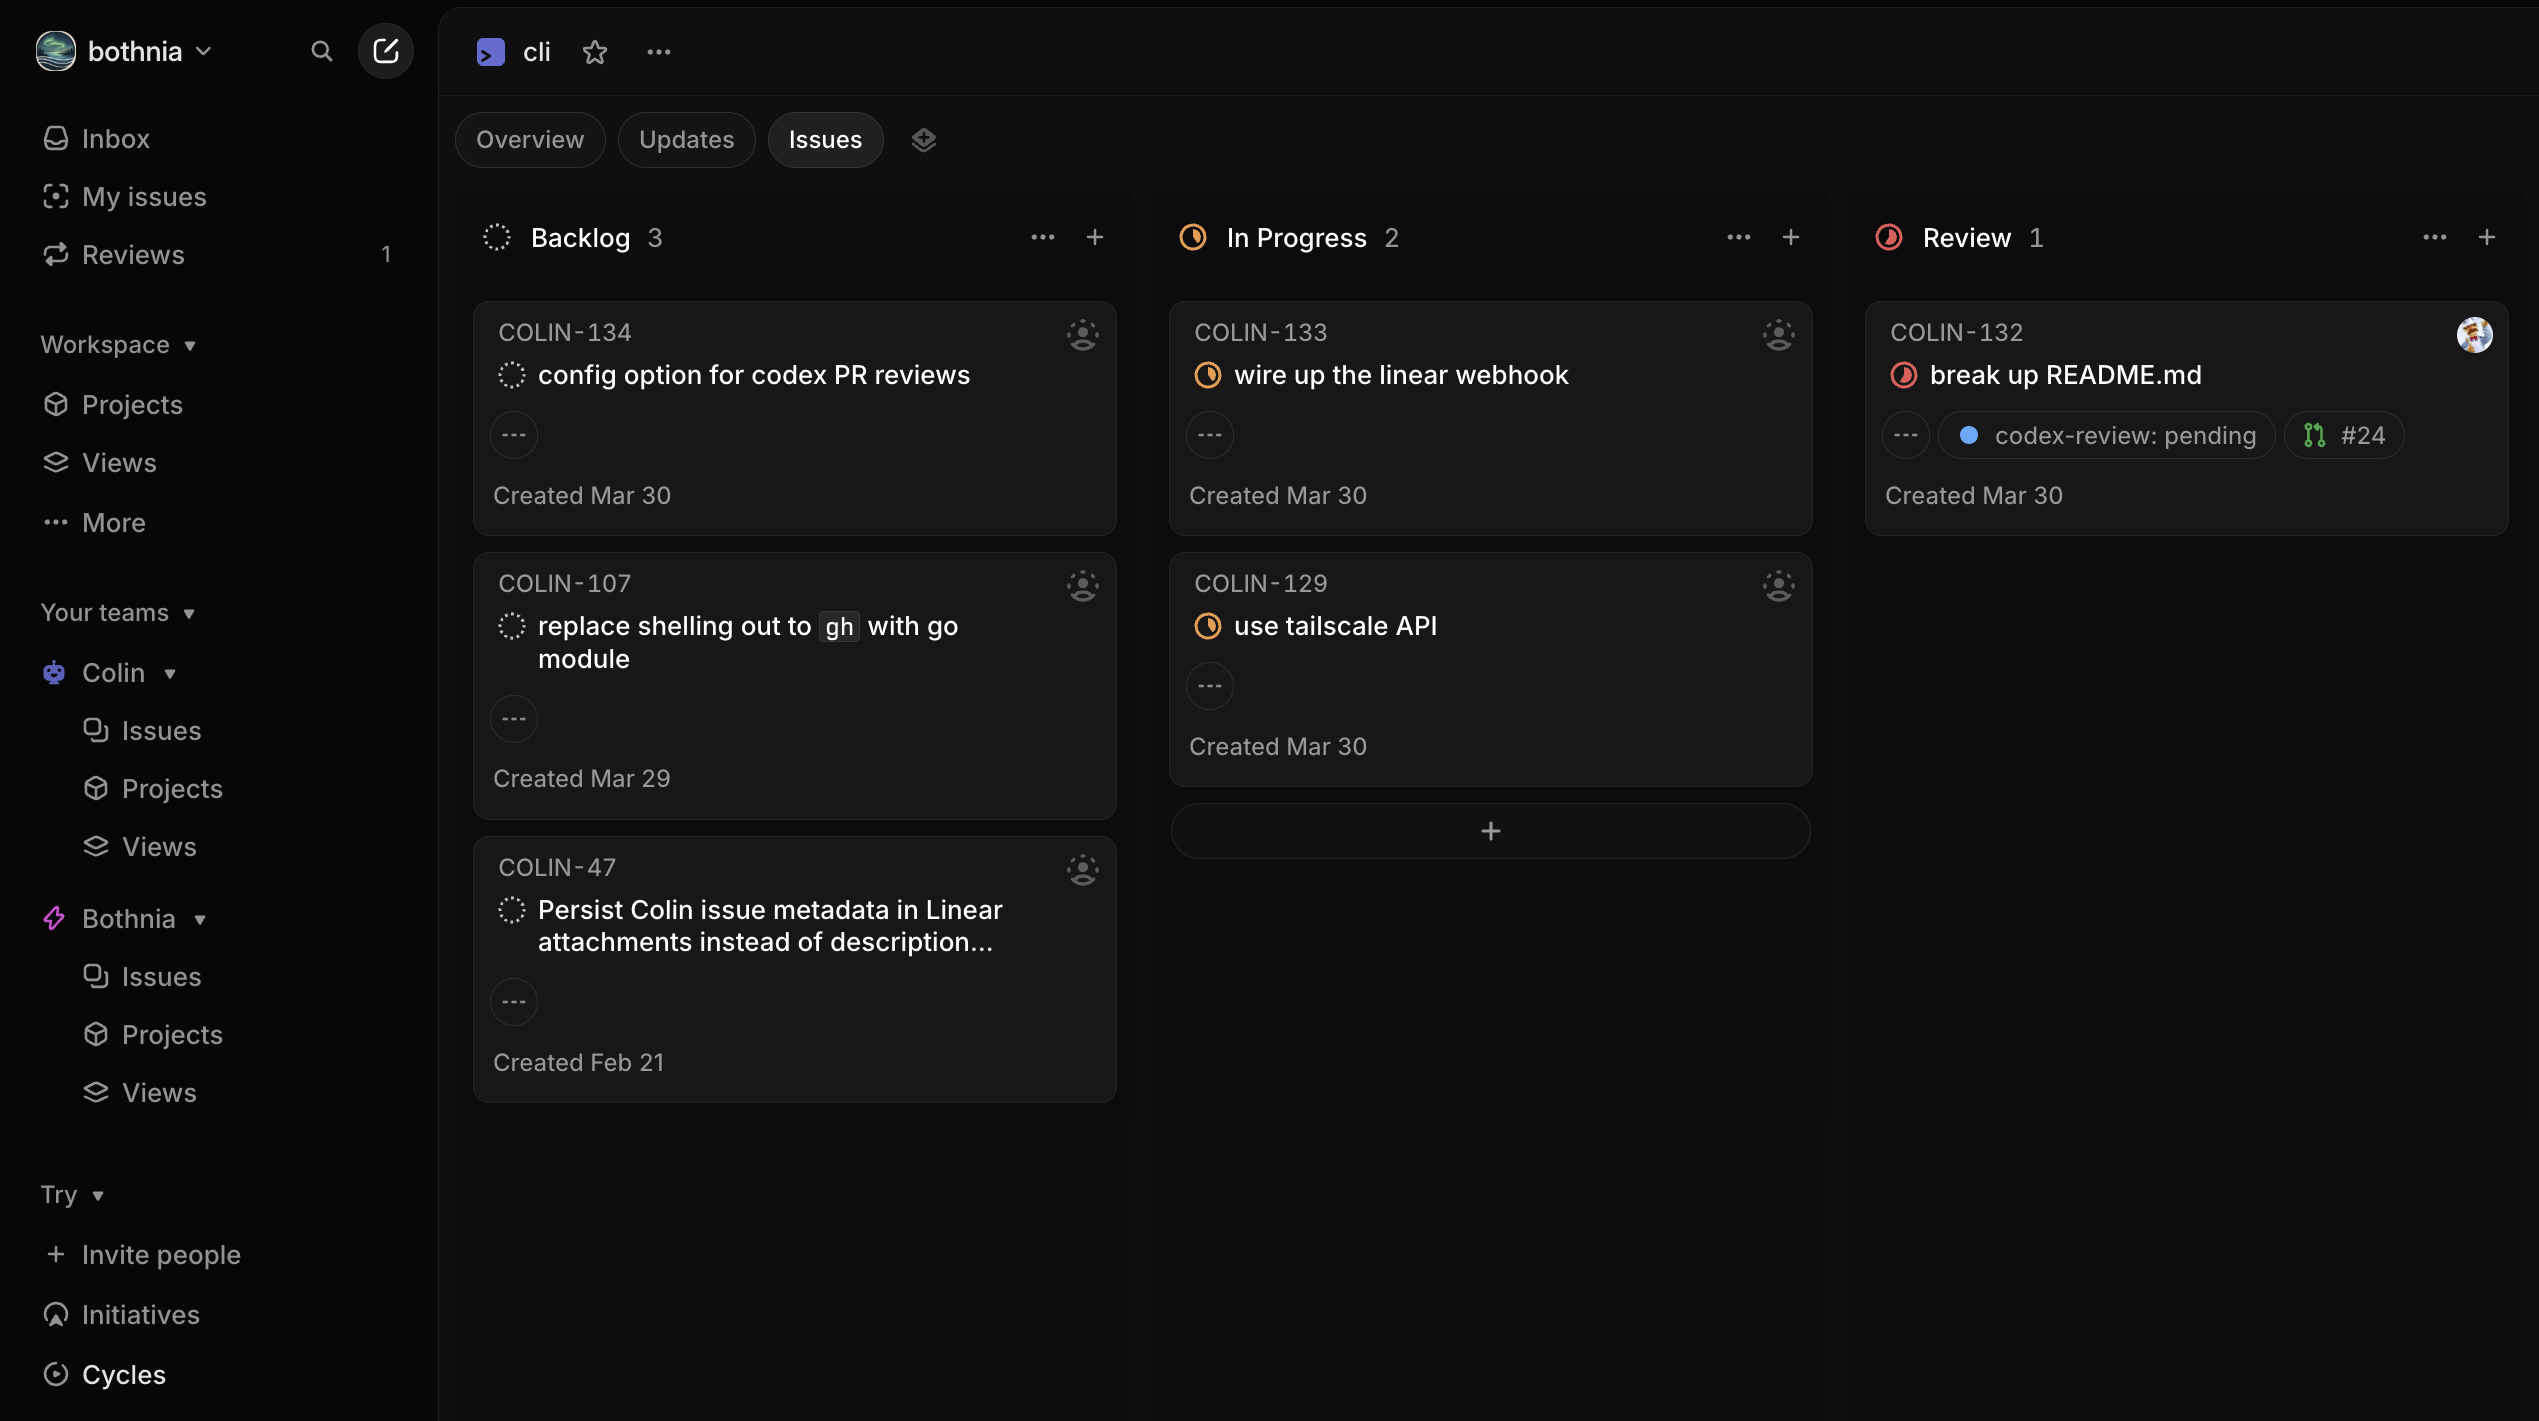
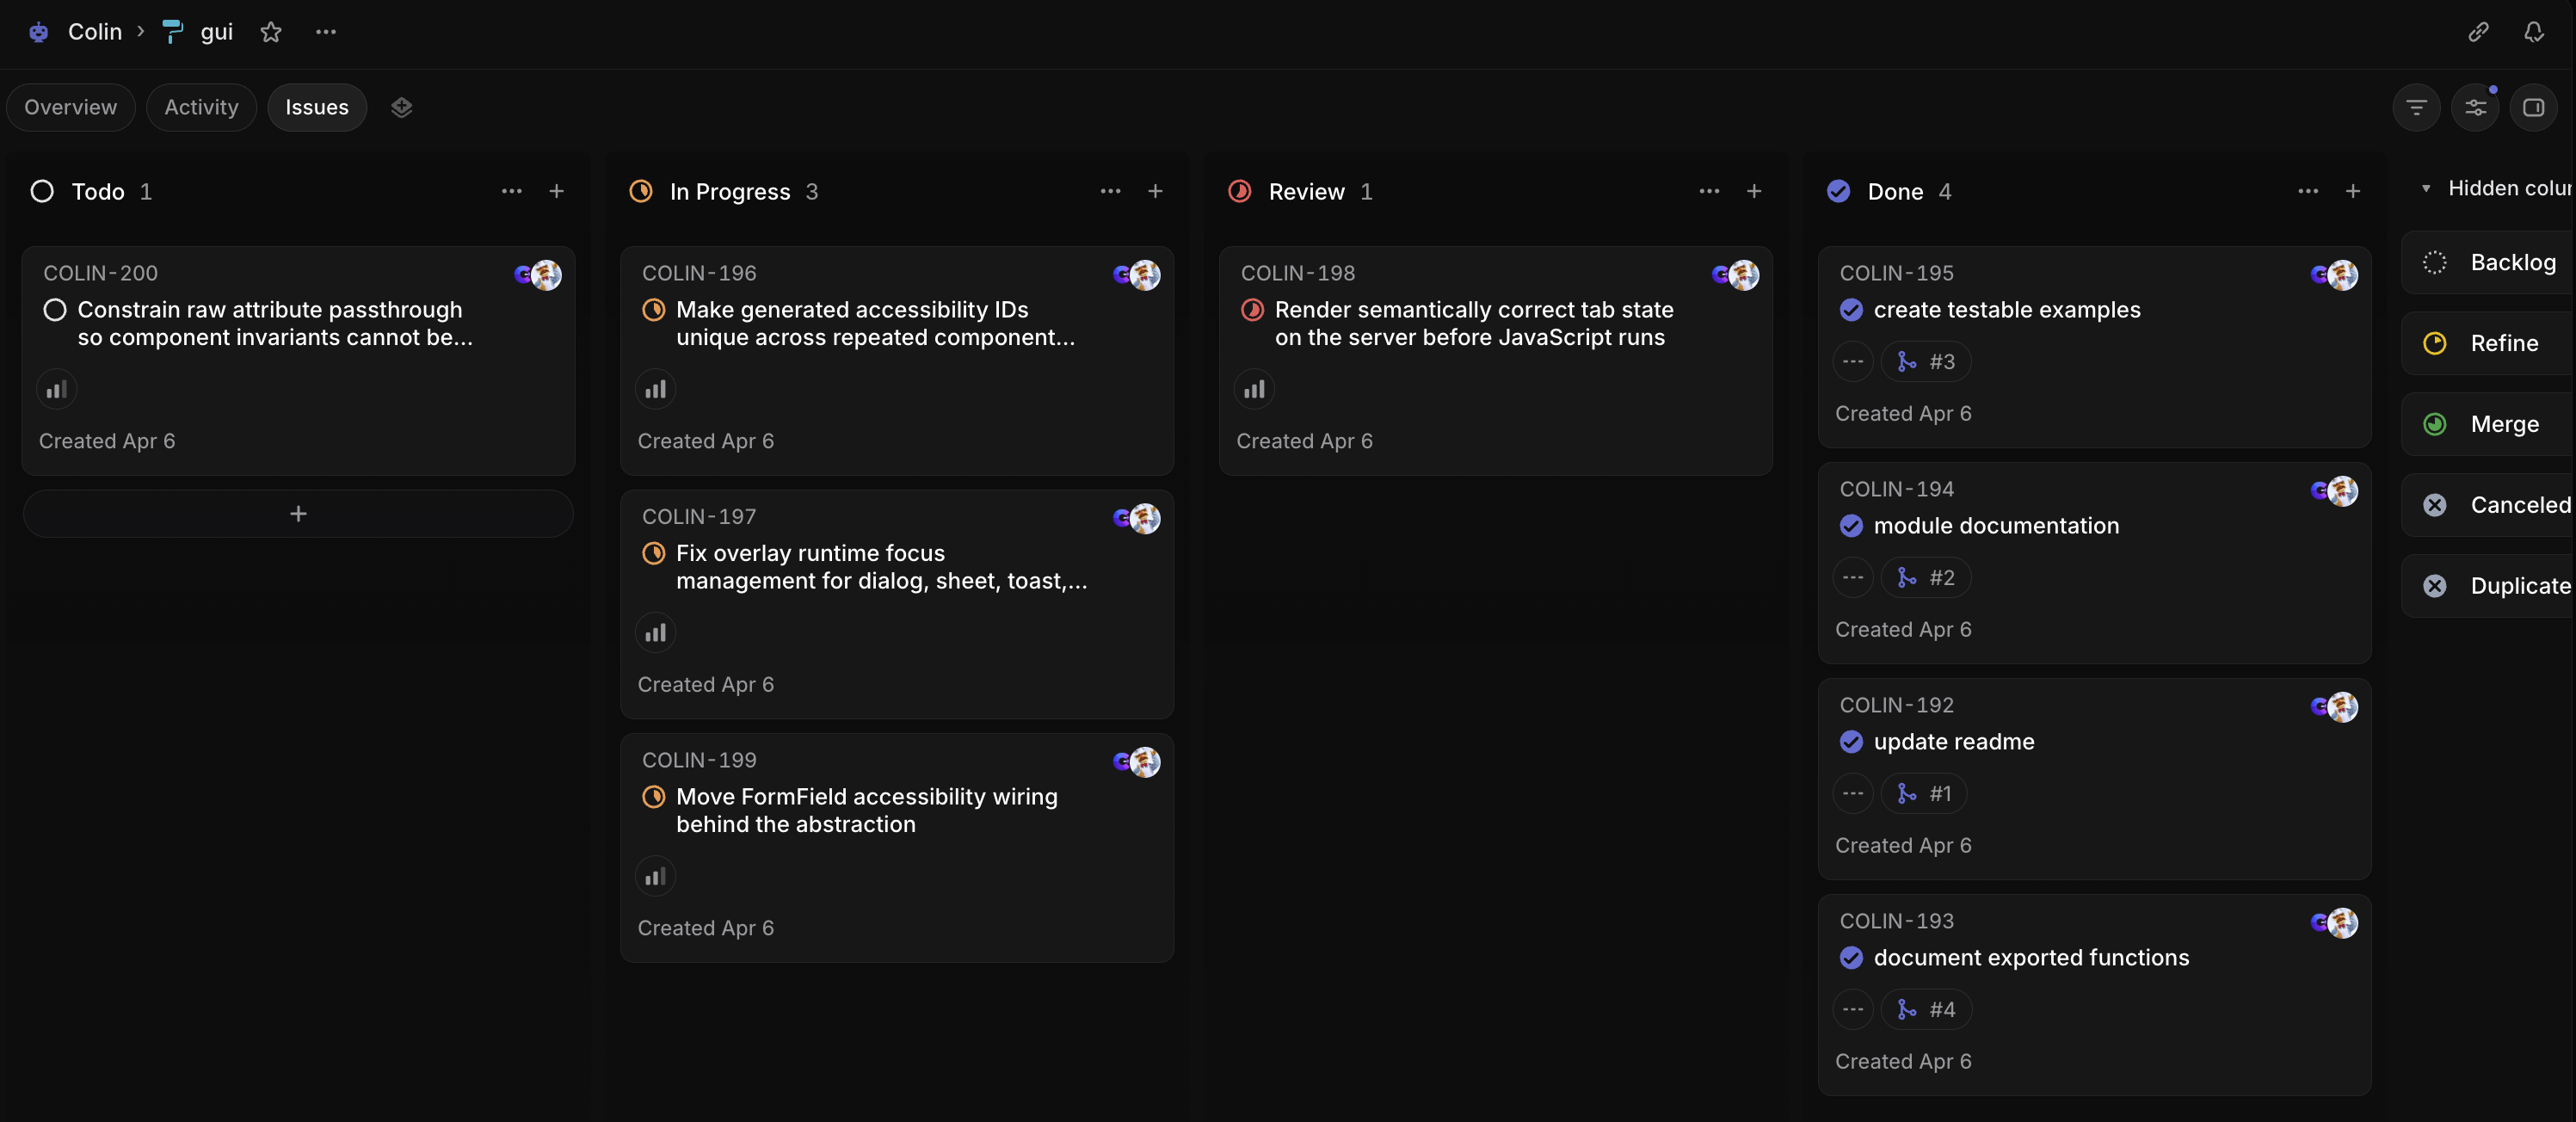
Update README screenshots

diff --git a/README.md b/README.md
@@ -26,6 +26,10 @@ Put work into `Todo`, let Colin pull it into `In Progress`, and let the board te
 
 ![Linear board showing Colin-managed issues moving through active and handoff states](docs/board.png)
 
+Each Linear issue becomes the shared handoff record for the work. Colin links the pull request, metadata page, and stored ExecPlan as issue resources when they are available, then keeps posting progress in the same activity thread so reviewers can see what started, what changed, and why the issue is waiting in its current state.
+
+![Linear issue showing Colin metadata, ExecPlan resources, review state, and progress activity](docs/issue.png)
+
 Colin actively works issues in these coding states:
 
 - `Todo`